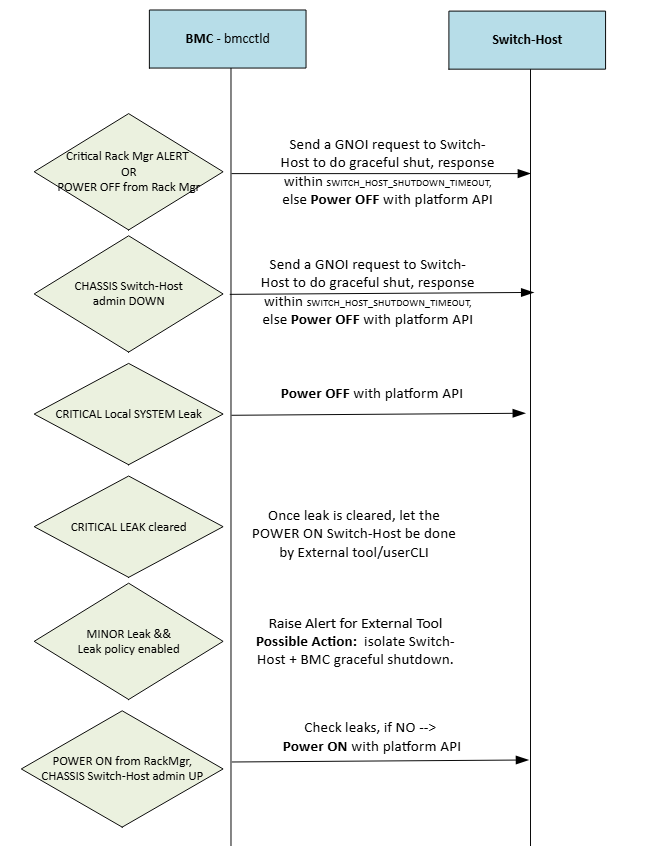
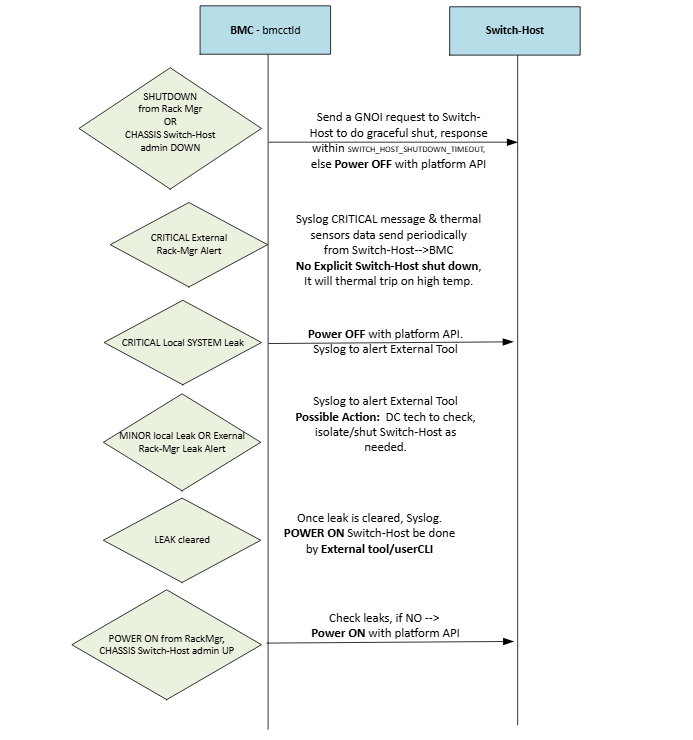
Update the log for Rack-Mgr critical events and add Switch-Host thermal sensor push to BMC redis-DB

diff --git a/doc/bmc/sonicBMC/pmon-bmc-design.md b/doc/bmc/sonicBMC/pmon-bmc-design.md
@@ -28,6 +28,8 @@
       * [2.3.1 Config commands](#231-config-commands)
       * [2.3.2 Show commands](#232-show-commands)
     * [2.4 Switch-Host and BMC platform management interaction](#24-switch-host-and-bmc-platform-management-interaction)
+      * [2.4.1 pmon/thermalctld](#241-pmonthermalctld)
+      * [2.4.2 CLI commands](#242-cli-commands)
     * [2.5 Firmware upgrade](#25-firmware-upgrade)
   * [3 Future Items](#3-future-items)
 
@@ -36,7 +38,8 @@
 
  | Rev |     Date    |       Author                                                         | Change Description                |
  |:---:|:-----------:|:--------------------------------------------------------------------:|-----------------------------------|
- | 1.0 |             |                                                                      | Initial version                   |
+ | 1.0 |             |       Judy Joseph                                                    | Initial version                   |
+
 
 # Scope
 This document provides design requirements and interactions between platform drivers and PMON for SONiC on BMC 
@@ -60,7 +63,7 @@ General requirements
 * BMC and Switch-Host shall enable an independent Hw watchdog timer.
 * BMC and Switch-Host can be power ON and OFF independently.
 * BMC shall remain operational (UP) during system leak events, power or voltage faults affecting the host system, provided standby power rail remains available
-* Firmware upgrade of components is done on Switch-Host or BMC based on who owns the component
+* Firmware upgrade of components is done on Switch-Host or BMC based on who owns the component and what needs a reboot.
 
 Liquid cooled sku requirements
 * BMC will manage leak detection, read local leak sensors, its severity and enforces mitigation actions according to system-wide SONiC policy.
@@ -230,8 +233,8 @@ BMC controls the State of the Switch-Host based on various factors/events. Defin
 || Switch Host State (Start) | Event | Action | Switch Host State (Final) 
 |--|---|---|---|---|
 |1| ONLINE  | LOCAL_LEAK_CRITICAL_EVENT | Syslog, Power OFF Switch Host | OFFLINE 
-|2| ONLINE  | RACK_MGR_CRITICAL_EVENT | Syslog, graceful-shutdown Switch Host | OFFLINE 
-|3| ONLINE  | RACK_MGR POWER OFF request | Syslog, graceful-shutdown Switch Host | OFFLINE 
+|2| ONLINE  | RACK_MGR_CRITICAL_EVENT | Syslog this event + Syslog the thermal sensor data | ONLINE
+|3| ONLINE  | RACK_MGR SHUTDOWN command | Syslog, graceful-shutdown Switch Host | OFFLINE
 |4| ONLINE  | CHASSIS_MODULE admin_down user request | Syslog, graceful-shutdown Switch Host | OFFLINE 
 |5| ONLINE  | LOCAL_LEAK_MINOR_EVENT | Syslog, External monitoring tool take action | ONLINE
 |6| ONLINE  | RACK_MGR_MINOR_EVENT | Syslog, External monitoring tool to take action | ONLINE
@@ -288,7 +291,7 @@ NO External/Local_System LEAK present
 
 Subscribe to RACK_MANAGER_COMMAND table, CHASSIS_MODULE table, RACK_MANAGER_ALERT* tables and SYSTEM_LEAK_STATUS table in STATE_DB 
 On an Event 
-  - if POWER_OFF request or CRITICAL Alert from Rack Manager (SKIP if disabled in LEAK_CONTROL_POLICY table [2.3.1 Config commands](#231-config-commands))
+  - if SHUTDOWN command from Rack manager
       - JUMP to --> **GRACEFUL_SHUT_DOWN_SWITCH_HOST:
       - update the HOST_STATE|switch-host with the device_power_state.
       - update RACK_MANAGER_COMMAND|CMD_<command_id> status to DONE or FAILED.
@@ -303,16 +306,17 @@ On an Event
       - JUMP to --> **GRACEFUL_SHUT_DOWN_SWITCH_HOST:
       - update the HOST_STATE|switch-host with the device_power_state.
 
-  - if Local SYSTEM_LEAK
+  - if CRITICAL Local SYSTEM_LEAK event
       - SKIP if disabled in LEAK_CONTROL_POLICY table [2.3.1 Config commands](#231-config-commands)
       - Call the platform API module->set_admin_state(DOWN) to power OFF the Switch-Host
       - update the HOST_STATE|switch-host with the device_power_state.
 
-  - if MINOR Local OR External leak
+  - if MINOR Local OR External-Rack-Mgr leak event
       - SKIP if disabled in LEAK_CONTROL_POLICY table [2.3.1 Config commands](#231-config-commands)
       - Syslog, and let the external monitoring Tool isolate the device.
 
-  - if CLEAR of MINOR/CRITICAL Local AND External leak
+  - if CLEAR of MINOR/CRITICAL Local AND External-Rack-Mgr leak
+      - No Local action on BMC
       - POWER_ON to be controlled by an External tool/user CLI.
 
 
@@ -341,7 +345,7 @@ boot_delay                = float                        ; Time in secs after po
 key                       = HOST_STATE|switch-host       ; STATE_DB on BMC to store state of Switch-Host
 ; field                   = value
 device_power_state        = POWER_ON | POWER_OFF         ; What was the last action done on Switch-Host
-device_status             = ONLINE | OFFLINE             ; current oper status of device
+device_status             = ONLINE | OFFLINE             ; current oper status of device, can use the platform API module->get_oper_state()
 last_change_timestamp     = STR
 
 
@@ -465,10 +469,10 @@ Switch-Host can be modelled as a Module object and the APIs to control power on/
 
 | Method | Present | Action |
 |---------|---------|----------|
-| set_admin_state(UP) | Y | Power ON Switch Host from standby/off |
-| set_admin_state(DOWN) | Y | Power OFF Switch Host |
+| set_admin_state(up=True) | Y | Power ON Switch Host from standby/off |
+| set_admin_state(up=False) | Y | Power OFF Switch Host |
 | get_oper_state() | Y | Fetch the operational state of Switch-Host|
-| set_admin_state(CYCLE) | New | Power cycle Switch Host|
+| do_power_cycle() | New | Power cycle Switch Host|
 
 
 Sample Implementation for BMC
@@ -525,12 +529,16 @@ This base class is already defined in sonic-platform-common.
 
 
 ### 2.3 BMC CLI Commands
-CLI commands to support BMC operation are below
+
+Following is the config and show CLI commands which are either newly added or needs a change to support BMC.
+The keywords LC:Liquid Cooled , AC:Air Cooled is used to denote which sku these CLIs are applicable.
 
 #### 2.3.1 Config commands
 
-1. CLI to enable user to graceful power on/off the Switch-Host. 
-   This could be used in an **Air cooled switch** also to recover the Switch-Host in case of a software failure.
+* config chassis modules startup/shutdown <Switch-Host>
+
+CLI to enable user to graceful power on/off the Switch-Host. 
+Applicable to (LC, AC)
 
 ```
 config chassis modules startup <Switch-Host>
@@ -552,12 +560,14 @@ config chassis modules shutdown <Switch-Host>
     }    
 ```
 
-2 CLI to control the Local leak, Rack-Manager external leak policy apply
-  This is applicable only to **liquid cooled switch**
+* config liquidcool leak-control
+
+CLI to control the Local leak, Rack-Manager leak policy enforcement
+Applicable to (LC)
 
 ```
 config liquidcool leak-control [local|rack_mgr] [enabled|disabled]
-   - This command helps user to enable and disable local/external leak policy application in BMC
+   - This command helps user to enable and disable local/rack-mgr-external leak policy application in BMC
    - Default is enabled.
 ```
 
@@ -573,7 +583,28 @@ config liquidcool leak-control [local|rack_mgr] [enabled|disabled]
 
 ##### 2.3.2 Show commands 
 
-* Command to show the status of BMC and Switch-Host 
+* show version 
+
+This command to display the Serial number of both BMC and Switch-Host. 
+There is a new field named "Switch-Host Serial Number" which will show the Switch serial number
+
+```
+show version 
+
+.....
+ASIC Count: 1
+Serial Number: <BMC serial number>
+Switch-Host Serial Number: <Switch serial number>
+Model Number: <>
+...
+
+```
+
+* show chassis module status
+ 
+Command to show the status of BMC and Switch-Host(using the platform API module->get_oper_state())
+ 
+Applicable to (LC, AC)
 
 ```
 show chassis module status
@@ -585,7 +616,10 @@ show chassis module status
 
 ```
 
-* Command to show leak control policy configuration
+* show platform leak control_policy
+
+Command to show leak control policy configuration
+Applicable to (LC)
 
 ```
 
@@ -595,7 +629,10 @@ show platform leak control_policy
 
 ```
 
-* Command to show leak rack-manager alerts
+* show platform leak rack-manager alerts
+
+Command to show leak rack-manager alerts
+Applicable to (LC)
 
 ```
 show platform leak rack-manager alerts
@@ -603,7 +640,10 @@ show platform leak rack-manager alerts
 
 ```
 
-* Command to show the leak profiles in system
+* show platform leak profiles
+
+Command to show the leak profiles in system
+Applicable to (LC)
 
 ```
 show platform leak profiles
@@ -611,21 +651,73 @@ show platform leak profiles
 
 ```
 
-* Command to display leak will be enhanced with more fields
+* show platform leak status
+
+Command to display leak will be enhanced with more fields
+Applicable to (LC)
 
 ```
 show platform leak status
 Name             Leak  Leak-sensor-status leak-sensor-type leak-severity
 ---------      ------- ------------------- ---------------- -------------
 leak_sensors1    NO           OK                 rope           NA
-leak_sensors2    NO           OK                 rope           NA
+leak_sensors2    NO           FAULTY             rope           NA
 ...
 leak_sensorsX    Yes          OK                 flex           CRITICAL
 
 ```
 
+* show platform temperature
+
+Command to display thermals on the Switch-Host in BMC
+Applicable to (LC, AC)
+
+```
+show platform temperature
+             Sensor    Temperature    High TH    Low TH    Crit High TH    Crit Low TH    Warning          Timestamp
+-------------------  -------------  ---------  --------  --------------  -------------  ---------  -----------------
+ Thermal sensor1         26.375         90         0             100             -15      False       20260319 22:46:58
+ Thermal sensor2         23.5           90         0             100             -15      False       20260319 22:46:58
+ Thermal sensor3         35.125         90         0             100             -15      False       20260319 22:46:58
+```
+
+
 #### 2.4 Switch-Host and BMC platform management interaction
 
+There are following enhancements planned in pmon running on SONiC in Switch-Host
+
+##### 2.4.1 pmon/thermalctld
+
+The thermalctld daemon will sent the thermal sensors polled and stored locally in redis-DB to redis-DB in the BMC also.
+
+BMC would use this thermal data to record the critical thermal deviation which can be used to either
+   (i) syslog which could be used for alert 
+   (ii) take action like shut the Switch-Host proactively before Switch-Host will be shutdown by hardware thermal trip.
+
+**Note:** In first phase we will just syslog the thermel sensor deviation in BMC event log and not trigger any action.
+
+![Thermal sensor data pushed to BMC](images/thermal_sensor.png)
+
+
+##### 2.4.2 CLI commands
+
+All SONiC commands are supported on Switch-Host. The following command needs enhancement.
+
+* show reboot-cause history
+
+Enhance the reboot reason to include the shutdown/powercycle commands from BMC 
+Applicable to (LC, AC)
+
+```
+show reboot-cause history 
+Name                 Cause                                                                 Time                             User    Comment
+-------------------  --------------------------------------------------------------------  -------------------------------  ------  ---------
+2026_03_18_04_38_17  reboot                                                                Wed Mar 18 04:37:21 AM UTC 2026  admin   N/A
+2026_03_18_02_06_06  shutdown from BMC                                                     Wed Mar 18 02:05:12 AM UTC 2026  admin   N/A
+2026_03_18_02_06_06  powercycle from BMC                                                   Wed Mar 18 02:05:12 AM UTC 2026  admin   N/A
+....
+
+```
 
 
 #### 2.5 Firmware upgrade
@@ -635,11 +727,14 @@ The upgrade process could be either during sonicimage-install or using fwutil cl
 
 Below is a sample reference,
 
-| Firmware upgrade   | Switch-Host reset required | BMC reset required | Who does FW upgrade |
+| Firmware upgrade   |      Switch-Host reboot    |     BMC reboot     | Who does FW upgrade |
 |--------------------|----------------------------|--------------------|---------------------|
 | BMC Uboot          |         No                 |         Yes        |    BMC              |
-| CPU CPLD           |         Yes                |         No         |    Switch-Host      |
+| CPU CPLD           |         Yes                |         Yes        |    Switch-Host      |
 | Leak CPLD FW       |         No                 |         Yes        |    BMC              |
 | Switch FPGA/CPLD   |         Yes                |         No         |    Switch-Host      |
+
+In case of a firmware upgrade which needs reboot of both Switch-Host and BMC, will do a FW upgrade on Switch-Host during a maintenance window. 
+
 
 ## 3 Future Items
